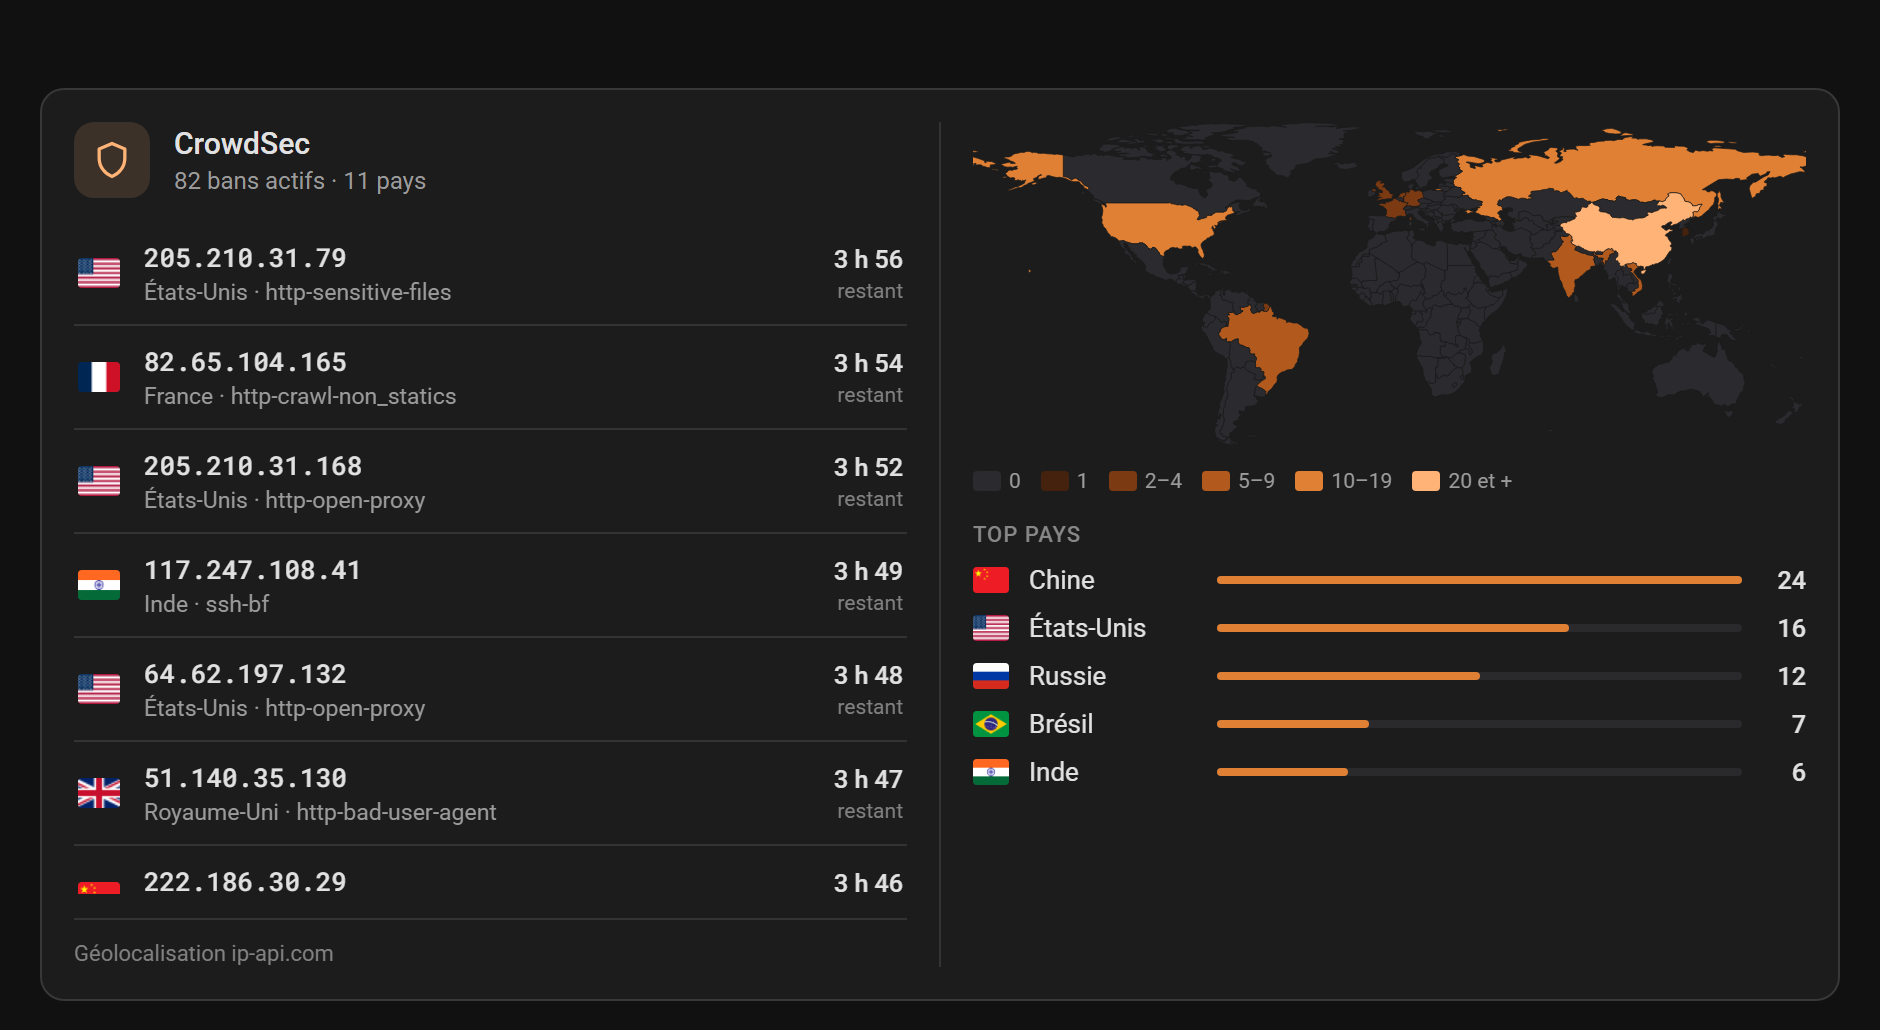
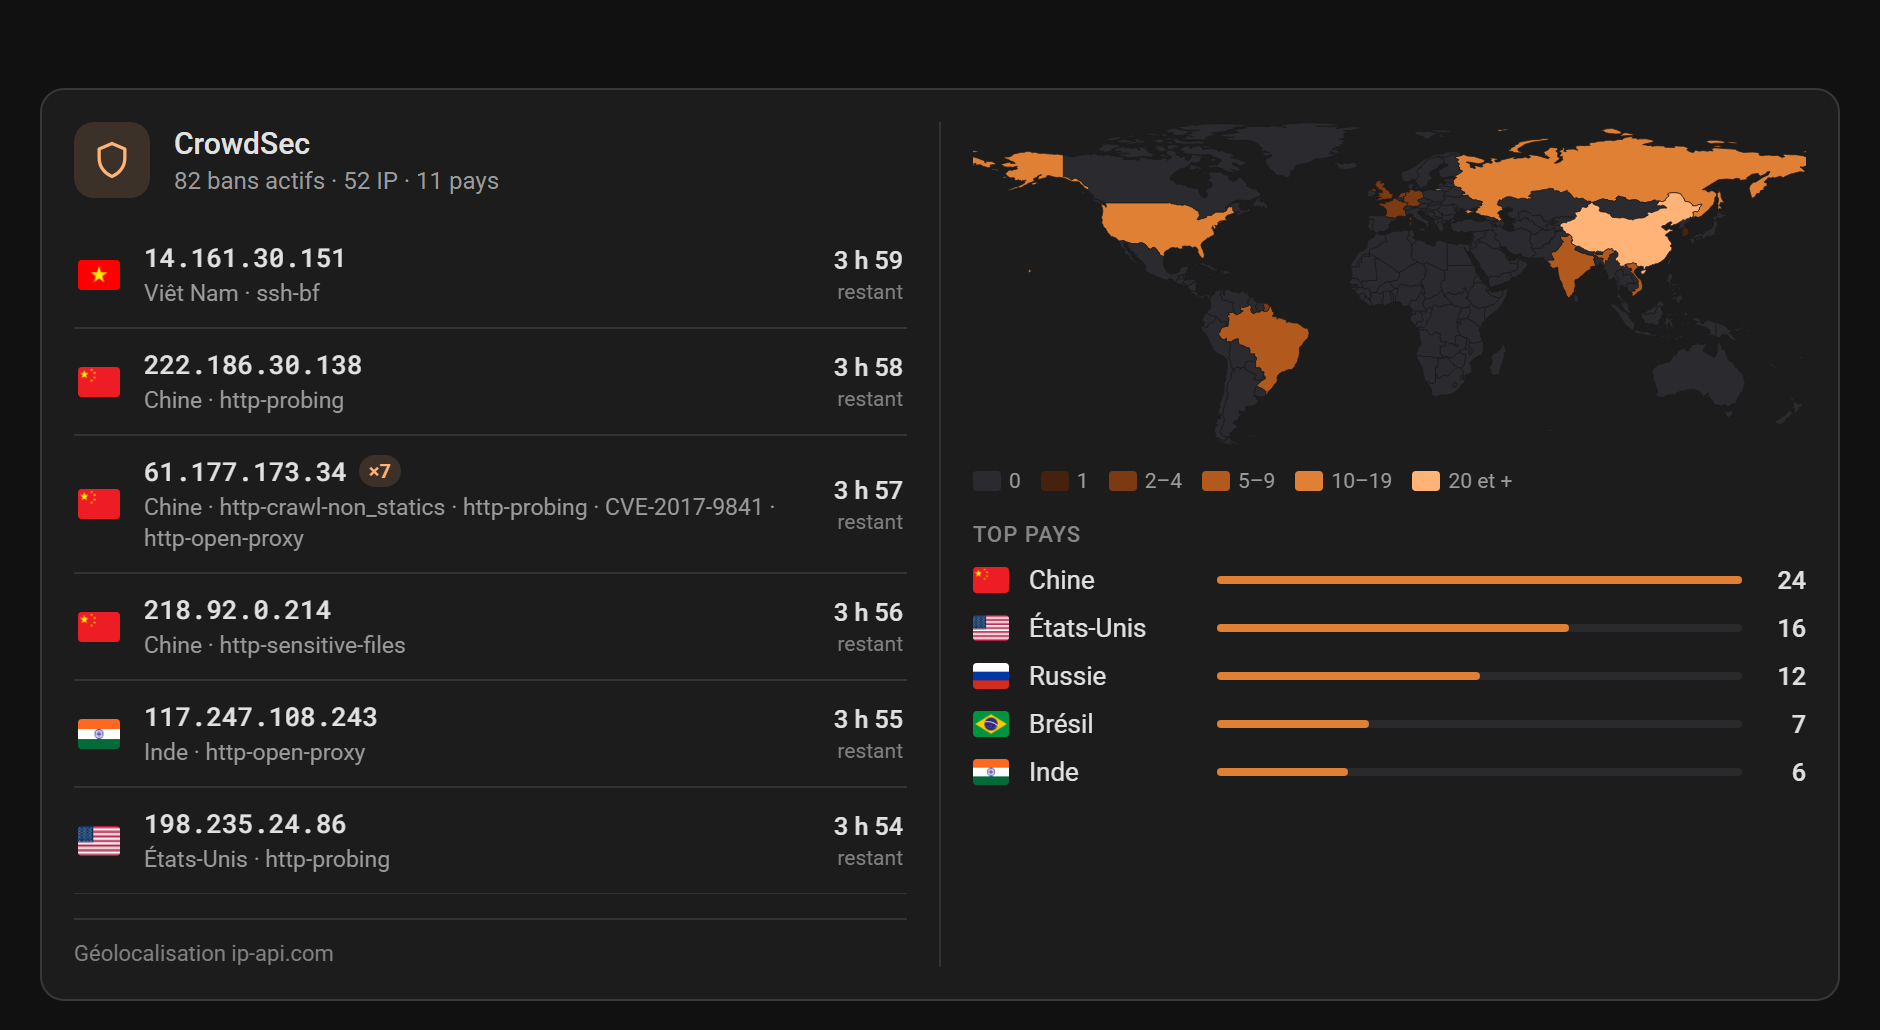
Group the ban list by IP with aggregated scenario details
One row per IP: flag, country, every scenario listed (wrapping when
needed), a xN badge when the IP carries several decisions, and the
longest remaining time. The header subtitle now also shows the IP
count. Map, legend and top countries still count bans. Demo dataset
gains repeat offenders so the harness showcases the grouping.

diff --git a/custom_components/crowdsec/www/crowdsec-card.js b/custom_components/crowdsec/www/crowdsec-card.js
@@ -24,7 +24,7 @@ const ZERO = { light: "#ececef", dark: "#2b2b2f" };
 
 const STRINGS = {
   fr: {
-    subtitle: (n, p) => `${n} ban${n > 1 ? "s" : ""} actif${n > 1 ? "s" : ""} · ${p} pays`,
+    subtitle: (b, i, p) => `${b} ban${b > 1 ? "s" : ""} actif${b > 1 ? "s" : ""} · ${i} IP · ${p} pays`,
     remaining: "restant",
     top: "Top pays",
     empty: "Aucun ban actif",
@@ -35,7 +35,7 @@ const STRINGS = {
     legend20: "20 et +",
   },
   en: {
-    subtitle: (n, p) => `${n} active ban${n > 1 ? "s" : ""} · ${p} countr${p > 1 ? "ies" : "y"}`,
+    subtitle: (b, i, p) => `${b} active ban${b > 1 ? "s" : ""} · ${i} IP${i > 1 ? "s" : ""} · ${p} countr${p > 1 ? "ies" : "y"}`,
     remaining: "left",
     top: "Top countries",
     empty: "No active ban",
@@ -202,6 +202,7 @@ class CrowdsecCard extends HTMLElement {
       if (d.country) counts[d.country] = (counts[d.country] || 0) + 1;
     }
     const countryCount = Object.keys(counts).length;
+    const ipCount = new Set(decisions.map((d) => d.value)).size;
     const steps = (PALETTES[this._config.palette] || PALETTES.menace)[this._dark ? "dark" : "light"];
     const zero = ZERO[this._dark ? "dark" : "light"];
     const accent = steps[this._dark ? 4 : 3];
@@ -234,10 +235,12 @@ class CrowdsecCard extends HTMLElement {
           font-weight: 700; display: inline-flex; align-items: center; justify-content: center;
           background: var(--secondary-background-color); color: var(--secondary-text-color); }
         .row-main { display: flex; flex-direction: column; gap: 2px; flex: 1 1 auto; min-width: 0; }
+        .ip-line { display: flex; align-items: center; gap: 6px; min-width: 0; }
         .ip { font-family: var(--code-font-family, ui-monospace, monospace); font-size: 13px; font-weight: 500;
           color: var(--primary-text-color); white-space: nowrap; overflow: hidden; text-overflow: ellipsis; }
-        .row-sub { font-size: 11.5px; color: var(--secondary-text-color); white-space: nowrap; overflow: hidden;
-          text-overflow: ellipsis; }
+        .chip { font-size: 10px; font-weight: 600; line-height: 16px; padding: 0 5px; border-radius: 8px;
+          background: ${accentBg}; color: ${accent}; flex: 0 0 auto; }
+        .row-sub { font-size: 11.5px; line-height: 1.35; color: var(--secondary-text-color); }
         .row-right { display: flex; flex-direction: column; gap: 2px; align-items: flex-end; flex: 0 0 auto; }
         .left { font-size: 12.5px; font-weight: 500; color: var(--primary-text-color); }
         .left-sub { font-size: 10.5px; color: var(--secondary-text-color); opacity: 0.8; }
@@ -290,23 +293,42 @@ class CrowdsecCard extends HTMLElement {
         <div class="icon-tile">${SHIELD}</div>
         <div class="titles">
           <span class="title">${esc(titleCfg || "CrowdSec")}</span>
-          <span class="subtitle">${esc(t.subtitle(decisions.length, countryCount))}</span>
+          <span class="subtitle">${esc(t.subtitle(decisions.length, ipCount, countryCount))}</span>
         </div>
       </div>`;
 
     const shown = this._filter ? decisions.filter((d) => d.country === this._filter) : decisions;
-    const rows = shown.length
-      ? `<div class="rows">${shown
-          .map((d) => {
-            const cc = d.country;
-            const sub = [cc ? this._countryName(cc) : null, (d.scenario || "").split("/").pop() || null]
+    // One row per IP: scenarios aggregated, longest remaining time kept.
+    // Input is sorted by remaining desc, so groups inherit that order.
+    const groups = [];
+    const byIp = new Map();
+    for (const d of shown) {
+      let g = byIp.get(d.value);
+      if (!g) {
+        g = { value: d.value, country: d.country, scenarios: [], count: 0, remaining: null };
+        byIp.set(d.value, g);
+        groups.push(g);
+      }
+      g.count += 1;
+      if (!g.country && d.country) g.country = d.country;
+      const sc = (d.scenario || "").split("/").pop();
+      if (sc && !g.scenarios.includes(sc)) g.scenarios.push(sc);
+      if (d._remaining !== null && (g.remaining === null || d._remaining > g.remaining)) g.remaining = d._remaining;
+    }
+    const rows = groups.length
+      ? `<div class="rows">${groups
+          .map((g) => {
+            const sub = [g.country ? this._countryName(g.country) : null, ...g.scenarios]
               .filter(Boolean)
               .join(" · ");
-            const rem = fmtRemaining(d._remaining);
+            const rem = fmtRemaining(g.remaining);
             return `<div class="row">
-              ${flag(cc)}
+              ${flag(g.country)}
               <div class="row-main">
-                <span class="ip">${esc(d.value)}</span>
+                <div class="ip-line">
+                  <span class="ip">${esc(g.value)}</span>
+                  ${g.count > 1 ? `<span class="chip">×${g.count}</span>` : ""}
+                </div>
                 <span class="row-sub">${esc(sub)}</span>
               </div>
               <div class="row-right">

diff --git a/docs/demo-data.js b/docs/demo-data.js
@@ -53,6 +53,7 @@ export function generateDecisions(seed = 42) {
   const decisions = [];
   let id = 1000;
   for (const c of SPEC) {
+    let lastIp = null;
     for (let i = 0; i < c.count; i++) {
       const prefix = c.prefixes[Math.floor(rnd() * c.prefixes.length)];
       const [asName, asNumber] = c.asns[Math.floor(rnd() * c.asns.length)];
@@ -60,12 +61,16 @@ export function generateDecisions(seed = 42) {
       const h = Math.floor(total / 3600);
       const m = Math.floor((total % 3600) / 60);
       const s = (total % 60) + Math.round(rnd() * 900) / 1000;
+      // Repeat offenders: some IPs carry several decisions (one per scenario),
+      // like real CrowdSec data - the card groups them.
+      const value = lastIp && rnd() < 0.35 ? lastIp : `${prefix}.${1 + Math.floor(rnd() * 253)}`;
+      lastIp = value;
       decisions.push({
         id: id++,
         origin: "crowdsec",
         scope: "Ip",
         type: "ban",
-        value: `${prefix}.${1 + Math.floor(rnd() * 253)}`,
+        value,
         scenario: SCENARIOS[Math.floor(rnd() * SCENARIOS.length)],
         duration: `${h ? h + "h" : ""}${m}m${s}s`,
         country: c.cc,
